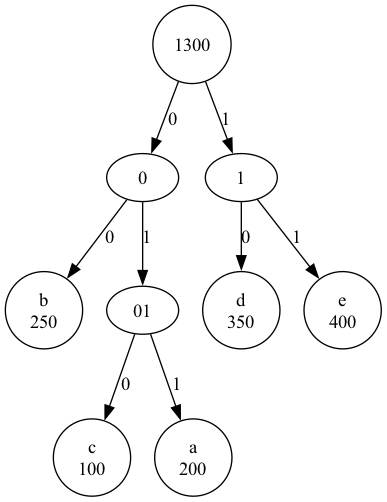
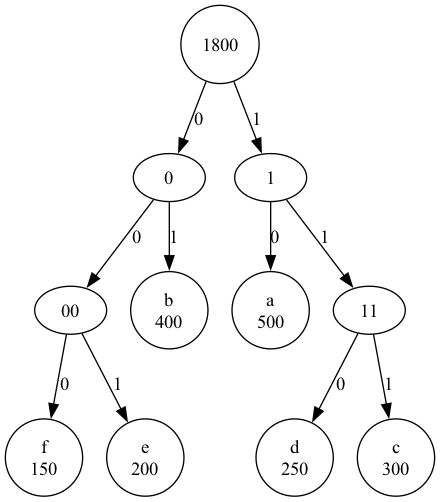
Added sand script

diff --git a/oliver_scripts/huffman/huffman_table__and_text.py b/oliver_scripts/huffman/huffman_table__and_text.py
@@ -1,7 +1,5 @@
 import heapq
-from collections import defaultdict, Counter
-import graphviz
-
+from collections import defaultdict
 
 class HuffmanNode:
     def __init__(self, char, freq):
@@ -13,7 +11,6 @@ class HuffmanNode:
     # Defining comparator methods for the priority queue
     def __lt__(self, other):
         return self.freq < other.freq
-
 
 def build_huffman_tree(frequencies):
     heap = [HuffmanNode(char, freq) for char, freq in frequencies.items()]
@@ -31,7 +28,6 @@ def build_huffman_tree(frequencies):
 
     return heap[0]
 
-
 def build_huffman_codes(node, code="", huffman_code={}):
     if node is None:
         return
@@ -44,7 +40,6 @@ def build_huffman_codes(node, code="", huffman_code={}):
 
     return huffman_code
 
-
 def huffman_encoding(data, frequencies):
     if not data:
         return "", {}
@@ -55,15 +50,12 @@ def huffman_encoding(data, frequencies):
     encoded_data = "".join(huffman_code[char] for char in data)
     return encoded_data, huffman_code, root
 
-
 def calculate_total_bits(data, huffman_code):
-    total_bits = sum(len(huffman_code[char]) * freq for char, freq in Counter(data).items())
+    total_bits = sum(len(huffman_code[char]) * data.count(char) for char in data)
     return total_bits
-
 
 def calculate_bits_for_char(char, huffman_code):
     return len(huffman_code.get(char, ""))
-
 
 def huffman_decoding(encoded_data, root):
     decoded_data = []
@@ -80,31 +72,15 @@ def huffman_decoding(encoded_data, root):
 
     return "".join(decoded_data)
 
-
-def visualize_huffman_tree(node):
-    def add_edges(graph, node, prefix=""):
-        if node.left:
-            graph.edge(prefix, prefix + "0", label="0")
-            add_edges(graph, node.left, prefix + "0")
-        if node.right:
-            graph.edge(prefix, prefix + "1", label="1")
-            add_edges(graph, node.right, prefix + "1")
-        if node.char is not None:
-            graph.node(prefix, label=f'{node.char}\n{node.freq}', shape='circle')
-
-    graph = graphviz.Digraph(format='png')
-    graph.node('', label=f'{node.freq}', shape='circle')
-    add_edges(graph, node)
-    return graph
-
-
 # Example usage
 if __name__ == "__main__":
     frequencies = {'a': 500, 'b': 400, 'c': 300, 'd': 250, 'e': 200, 'f': 150}
-    data = ''.join(char * freq for char, freq in frequencies.items())
+    data = "caffebad"
+    print(f"Original data: {data}")
 
     encoded_data, huffman_code, root = huffman_encoding(data, frequencies)
     print(f"Encoded data: {encoded_data}")
+    print(f"Decoded data amount of bits: {len(encoded_data)}")
     print(f"Huffman Codes: {huffman_code}")
 
     total_bits = calculate_total_bits(data, huffman_code)
@@ -117,7 +93,4 @@ if __name__ == "__main__":
     decoded_data = huffman_decoding(encoded_data, root)
     print(f"Decoded data: {decoded_data}")
 
-    # Visualize the Huffman Tree
-    graph = visualize_huffman_tree(root)
-    graph.render('huffman_tree')
-    print("Huffman tree visualized and saved as 'huffman_tree.png'")
+

diff --git a/oliver_scripts/asymptopisk/sand_asymptopisk_tid.py b/oliver_scripts/asymptopisk/sand_asymptopisk_tid.py
@@ -1,0 +1,88 @@
+import math
+
+def analyze_runtime(algorithm_code, n):
+    # Setup the initial environment for the algorithm
+    local_vars = {'n': n, 'iterations': 0}
+    exec(algorithm_code, {}, local_vars)
+    return local_vars['iterations']
+
+def compute_asymptotic_runtime(iterations, n):
+    log_n = math.log(n)
+    log_n_squared = (math.log(n)) ** 2
+    sqrt_n = math.sqrt(n)
+    n_log_n = n * math.log(n)
+    n_log_n_squared = n * (math.log(n)) ** 2
+    n_squared = n ** 2
+    n_cubed = n ** 3
+    two_power_n = 2 ** n
+
+    # Create a dictionary to store the complexity types
+    complexity = {
+        "Θ(1)": 1,
+        "Θ(log n)": log_n,
+        "Θ((log n)^2)": log_n_squared,
+        "Θ(√n)": sqrt_n,
+        "Θ(n)": n,
+        "Θ(n log n)": n_log_n,
+        "Θ(n(log n)^2)": n_log_n_squared,
+        "Θ(n^2)": n_squared,
+        "Θ(n^3)": n_cubed,
+        "Θ(2^n)": two_power_n,
+    }
+
+    # Use the minimum absolute relative difference to determine the closest complexity class
+    closest_complexity = min(complexity, key=lambda key: abs((iterations - complexity[key]) / iterations))
+
+    return closest_complexity
+
+# Example usage:
+n = 1024
+# algorithm_code = """
+# iterations = 0
+# i = n
+# while i > 1:
+#     j = i
+#     while j < n:
+#         j = j + 1
+#         iterations += 1
+#     i = i // 2
+# """
+algorithm_code = """
+iterations = 0
+i = 1
+j = n
+while i < j:
+    i = i + 1
+    j = j - 1
+    iterations += 1
+"""
+
+
+"""
+This code snippet demonstrates the correct way to use nested for loops and an if statement to perform a specific task.
+
+for i in range(1, n+1):  
+    for j in range(1, n+1):
+        if i == j:
+            for k in range(1, n+1):
+                s += 1 
+                iterations += 1  # Task: increment the iterations counter by 1
+
+Explanation:
+- The outer loop initializes and iterates the variable i from 1 to n. 
+- The middle loop initializes and iterates the variable j from 1 to n for each iteration of i.
+- The if statement checks if the current values of i and j are equal.
+- If the condition i == j is true, the inner loop initializes and iterates the variable k from 1 to n.
+- Inside the inner loop, the variable s is incremented by 1, and the iterations counter is also incremented by 1.
+- This structure allows you to perform specific tasks whenever the condition i == j is met within the nested loops.
+"""
+
+
+
+
+
+iterations = analyze_runtime(algorithm_code, n)
+asymptotic_runtime = compute_asymptotic_runtime(iterations, n)
+
+print(f"For n = {n}, the algorithm runs {iterations} iterations.")
+print(f"The asymptotic runtime is {asymptotic_runtime}.")

diff --git a/oliver_scripts/search_algorithms/kruskal.py b/oliver_scripts/search_algorithms/kruskal.py
@@ -72,6 +72,7 @@ def kruskal(graph):
 # }
 
 
+
 G = {
     'a': [('b', 4), ('f', 3)],
     'b': [('a', 4), ('f', 5), ('g', 2), ('c', 1)],
